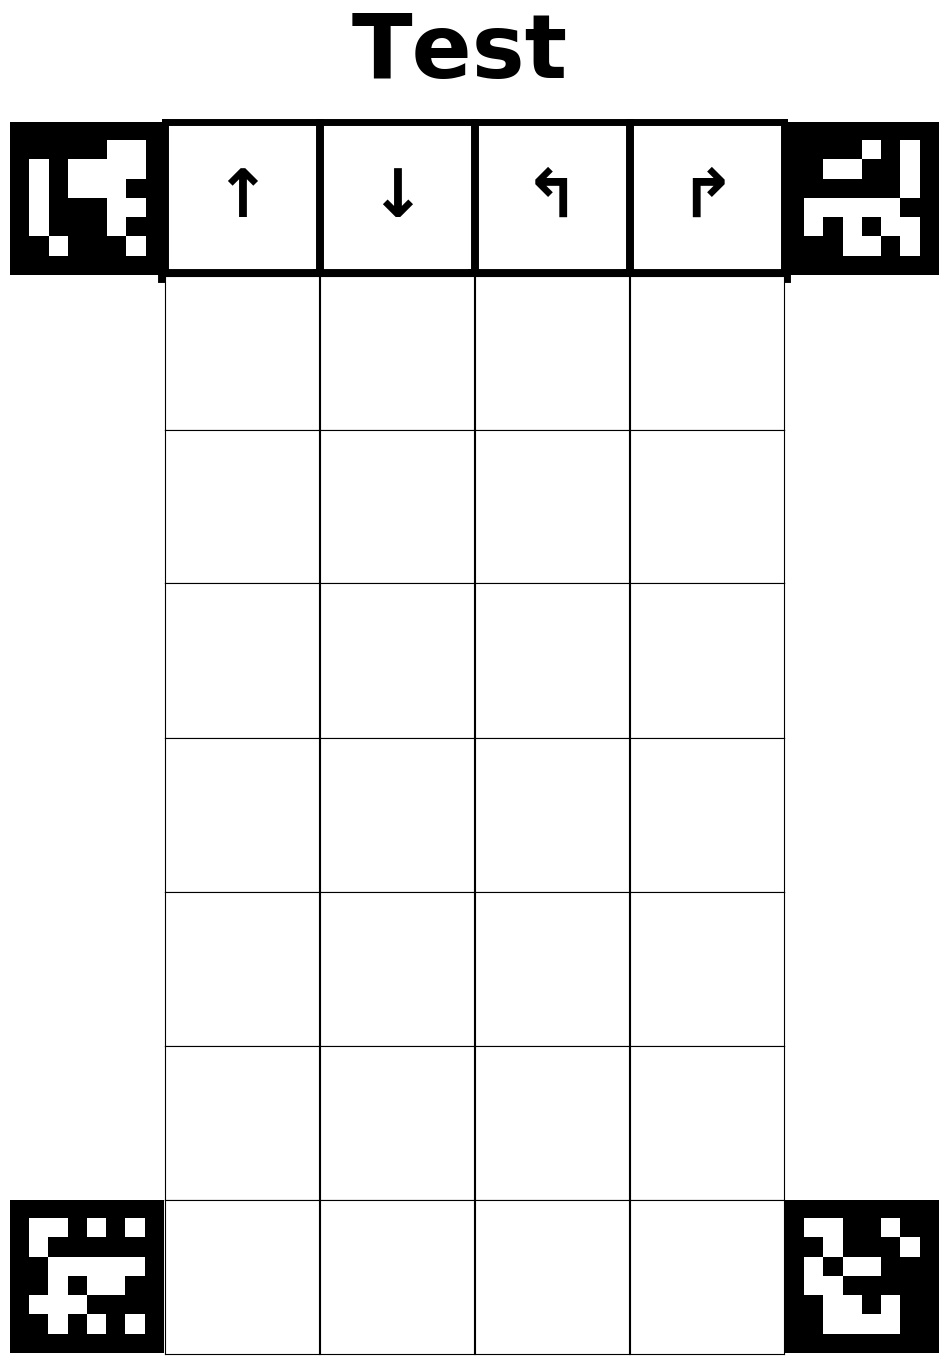
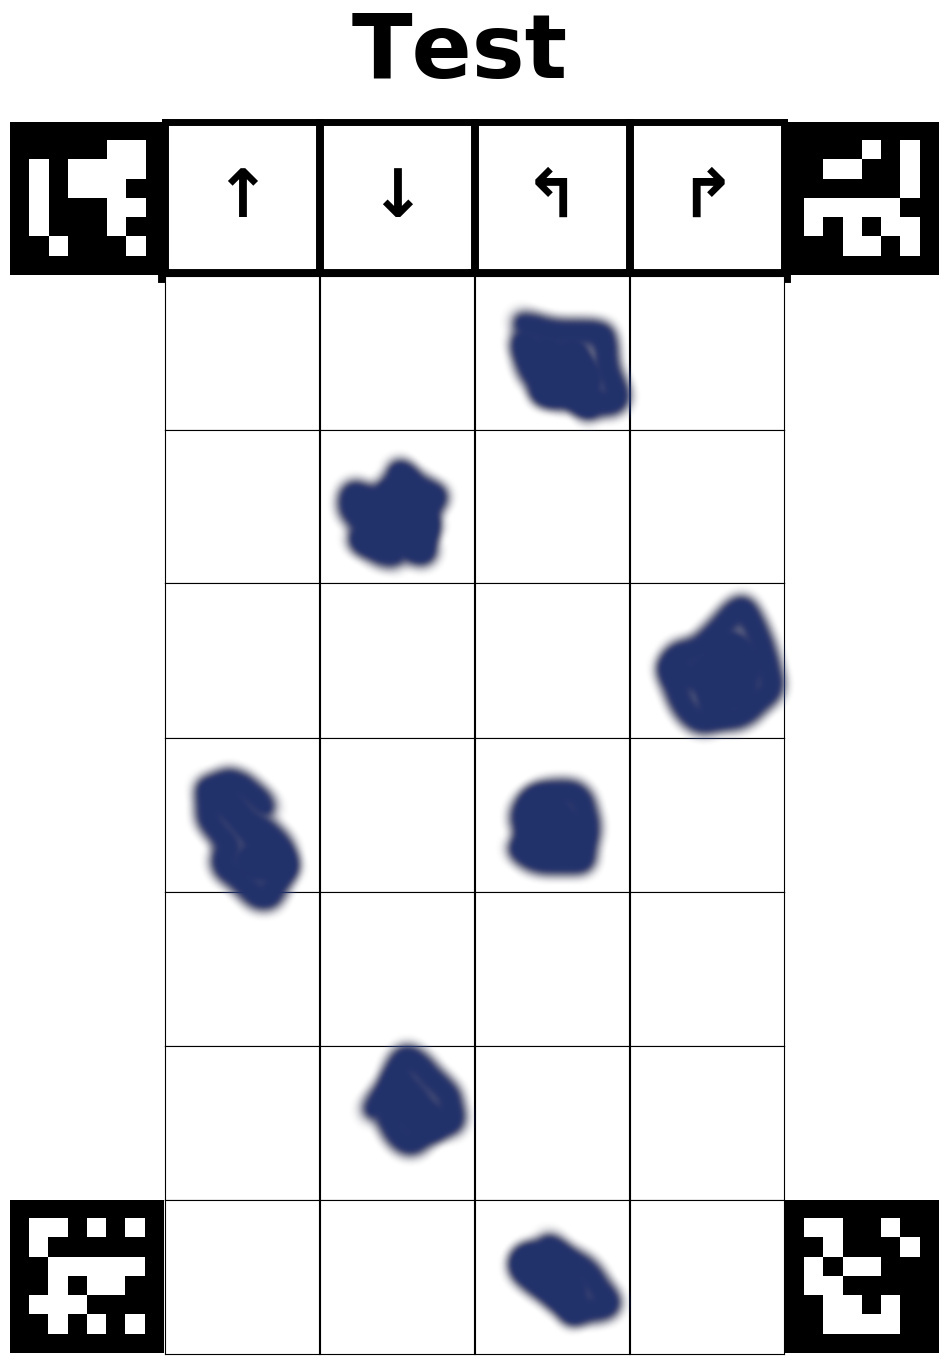
marker detection works

diff --git a/utils.py b/utils.py
@@ -13,7 +13,7 @@ def show(image, title, scale=0.5):
     cv2.imshow(title, resized)
 
 
-def perspective_transform(img, corners):
+def perspective_transform(img, corners, margin=0):
     height = max(np.linalg.norm(corners[0] - corners[3]),
                  np.linalg.norm(corners[1] - corners[2]))
     width = max(np.linalg.norm(corners[0] - corners[1]),
@@ -24,8 +24,6 @@ def perspective_transform(img, corners):
     ratio_diff = abs(target_ratio - ratio)
 
     print(f'ratio is {ratio} diff {ratio_diff}, {width}x{height}')
-
-    margin = 32
 
     layout = np.array([[margin, margin], [width - margin, margin], [width - margin, height - margin], [margin, height - margin]], np.float32)
 
@@ -65,6 +63,23 @@ def outer_corners(corners):
     return np.asarray(farthest_corners)
 
 
+def average_coords(image, width, height, x, y):
+    error = 0.8
+    margin = (1 - error) / 2
+
+    box_width = int(image.shape[1]) / width
+    box_height = int(image.shape[0]) / height
+
+    x1 = (x + 0 + margin) * box_width
+    x2 = (x + 1 - margin) * box_width
+    y1 = (y + 0 + margin) * box_height
+    y2 = (y + 1 - margin) * box_height
+
+    roi = image[int(y1):int(y2), int(x1):int(x2)]
+
+    return np.linalg.norm(cv2.mean(roi))
+
+
 def debug_image(image):
     corners, ids, frame_markers = markers(image)
 
@@ -73,18 +88,48 @@ def debug_image(image):
     for i in farthest_corners:
         cv2.circle(frame_markers, tuple(i), 30, 255, -1)
 
-    corners, ids, cropped = markers(perspective_transform(image, farthest_corners))
-
+    transformed = perspective_transform(image, farthest_corners, margin=32)
+    corners, ids, cropped = markers(transformed)
     marker_size = np.linalg.norm(corners[0][0][0][0] - corners[0][0][0][1])
-
     farthest_corners = outer_corners(corners)
-    image_width = np.linalg.norm(farthest_corners[0] - farthest_corners[1])
-    image_height = np.linalg.norm(farthest_corners[1] - farthest_corners[2])
 
-    width = round(image_width / marker_size)
-    height = round(image_height / marker_size)
+    final = perspective_transform(transformed, farthest_corners)
+    final_image = cv2.cvtColor(final, cv2.COLOR_BGR2GRAY)
+    width = int(final_image.shape[1] / marker_size)
+    height = int(final_image.shape[0] / marker_size)
 
-    print(f"Table size {width}x{height} - marker size {marker_size}, image {image_width}x{image_height}")
+    field_width = final_image.shape[1] / width
+    field_height = final_image.shape[0] / height
 
-    show(cropped, "cropped", 0.5)
+    print(f"Table size {width}x{height} - marker size {marker_size}, image {final_image.shape[1]}x{final_image.shape[0]}")
+
+    average_blanks = [average_coords(final_image, width, height, x, y) for y in range(1, height-1) for x in [0, width-1]]
+    average_blank = sum(average_blanks) / len(average_blanks)
+
+    print(f"average blank {average_blank}")
+
+    blank_margin = 10
+
+    marked = []
+
+    for y in range(1, height):
+        for x in range(1, width-1):
+            average = average_coords(final_image, width, height, x, y)
+
+            diff = average_blank - average
+
+            print(f"field {x}x{y} diff {diff}")
+
+            if diff > blank_margin:
+                marked.append((x, y))
+
+    print(f"Marked size {len(marked)}")
+
+    for point in marked:
+        x, y = point
+        position = (int((x + 0.5) * field_width), int((y + 0.5) * field_height))
+
+        cv2.circle(final, position, 30, (0, 255, 0), -1)
+
+    show(final, "cropped", 0.5)
     show(frame_markers, "debug", 0.5)
